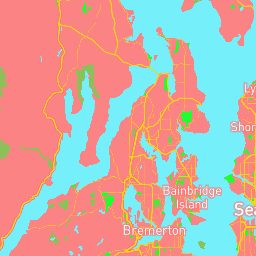
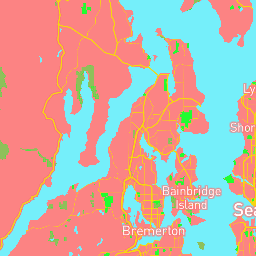
update pictures

diff --git a/index.html b/index.html
@@ -105,7 +105,7 @@
         let map = new mapboxgl.Map({
             container: 'map', // container ID
             style: 'mapbox://styles/mapbox/dark-v10',
-            zoom: 11, // starting zoom
+            zoom: 10, // starting zoom
             center: [-122.2559435, 47.6002614] // starting center
         });
 
@@ -148,7 +148,7 @@
             });            
 
             map.addLayer({
-                'id': 'basemap',
+                'id': 'Basemap',
                 'type': 'raster',
                 'layout': {
                     'visibility': 'none'
@@ -157,7 +157,7 @@
             });
 
             map.addLayer({
-                'id': 'landmark',
+                'id': 'Landmark',
                 'type': 'raster',
                 'layout': {
                     'visibility': 'none'
@@ -166,7 +166,7 @@
             });
 
             map.addLayer({
-                'id': 'thematic',
+                'id': 'Basemap-and-Landmark',
                 'type': 'raster',
                 'layout': {
                     'visibility': 'none'
@@ -175,7 +175,7 @@
             });         
 
             map.addLayer({
-                'id': 'black',
+                'id': 'Black-History-Month',
                 'type': 'raster',
                 'layout': {
                     'visibility': 'none'
@@ -188,12 +188,12 @@
         // After the last frame rendered before the map enters an "idle" state.
         map.on('idle', () => {
             // If these two layers were not added to the map, abort
-            if (!map.getLayer('basemap', 'landmark', 'thematic', 'black')) {
+            if (!map.getLayer('Basemap', 'Landmark', 'Basemap-and-Landmark', 'Black-History-Month')) {
                 return;
             }
 
             // Enumerate ids of the layers.
-            const toggleableLayerIds = ['basemap', 'landmark', 'thematic', 'black'];
+            const toggleableLayerIds = ['Basemap', 'Landmark', 'Basemap-and-Landmark', 'Black-History-Month'];
 
             // Set up the corresponding toggle button for each layer.
             for (const id of toggleableLayerIds) {

diff --git a/assets/black_history_month.html b/assets/black_history_month.html
@@ -53,7 +53,7 @@
           map.dragging.enable();
         })
 
-      var map = L.map('map').setView([47.60772632541851, -122.30114513239906], 7.0);
+      var map = L.map('map').setView([47.505323525242765, -121.94386333067155], 7.0);
       var baselayer = L.tileLayer('http://{s}.tile.openstreetmap.org/{z}/{x}/{y}.png', {
         maxZoom: 18,
         attribution: 'Map data &copy; <a href="http://openstreetmap.org/copyright">OpenStreetMap</a> contributors'
